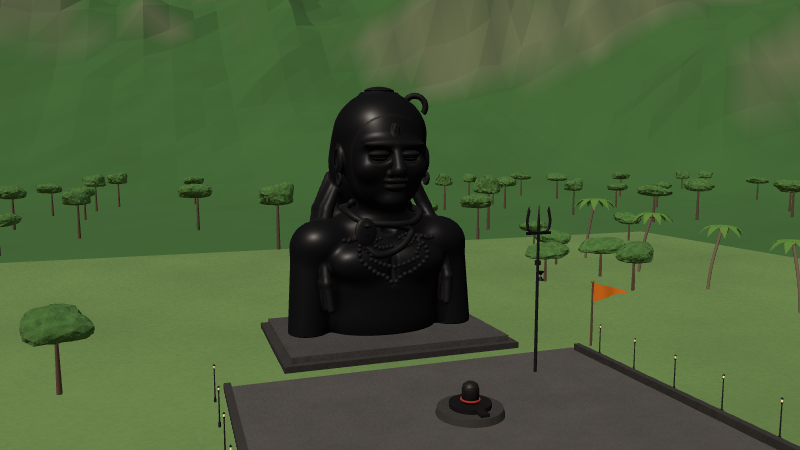
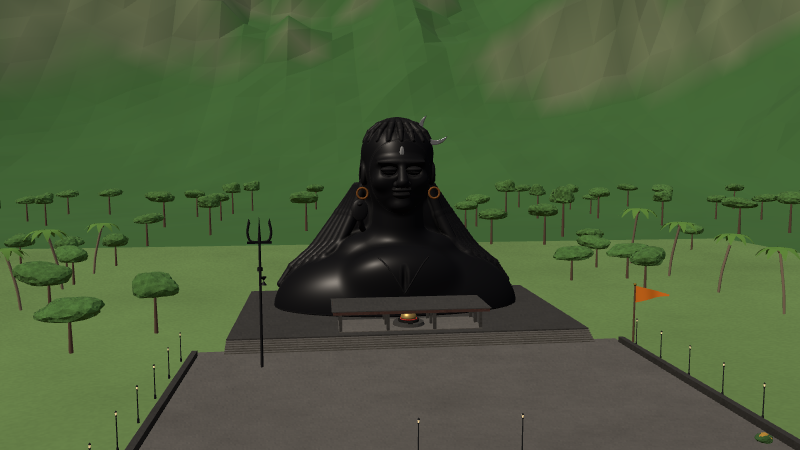
Adiyogi after its photograph: broad sloping shoulders, a cloak of locks, the pavilion
The bust is now 45 m across: the head on a thick neck rising from shoulders
that slope to the ground, with no cut-off arms. Matted locks run back over the
head and fall in a cloak over the shoulders. The crescent and the third eye
are bright steel, the earrings copper; the cobra rears beside the neck on his
right, and a thin cord replaces the bead strings. In front, a terrace with
steps across it and the flat-roofed pavilion of the Yogeshwar linga.

Claude-Session: https://claude.ai/code/session_01TMbkMSndjAtdLzBZus9Ji6

diff --git a/js/monuments/adiyogi.js b/js/monuments/adiyogi.js
@@ -1,50 +1,50 @@
 import * as THREE from 'three';
-import { mat, mesh, box, at, inst } from '../helpers.js';
-import { trishul } from '../parts/components.js';
-import { ellipsoid as E, cone, chain, blend, carve, mirrorX, flatBase, bounded, sculpt, statueMaterial, snap, onSkin, smin } from '../sdf.js';
+import { mat, mesh, at } from '../helpers.js';
+import { ellipsoid as E, cone, chain, blend, carve, mirrorX, flatBase, bounded, sculpt, statueMaterial, onSkin, smin } from '../sdf.js';
 import { detail } from '../detail.js';
 import { addDetails } from '../details/adiyogi.js';
 
 // Adiyogi at the Isha Yoga Centre near Coimbatore (2017), from photographs: a bust of Shiva as the
-// first yogi, 112 ft (34.24 m) high, of black steel, at the foot of the Velliangiri hills. The bust
-// is cut off across the chest and the upper arms. The face is calm and smooth, the eyes half
-// closed under heavy lids, a third eye upright in the middle of the brow, the lips full; the hair
-// is a mass of matted locks gathered into a high knot, with the crescent moon in it on his left,
-// and long locks falling over the shoulders. A cobra coils round his neck and raises its hood on
-// his chest, and strings of rudraksha beads hang over it. In front of the bust a tall trident is
-// planted. The bust faces +z; it stands on a low platform BASE high.
+// first yogi, 112 ft (34.24 m) high, 45 m across and 25 m deep, of black steel, at the foot of the
+// Velliangiri hills. The head, half the statue's height, stands on a thick neck that rises out of
+// very broad shoulders, which slope away to the ground on either side like a mound: there are no
+// arms. The face is calm and smooth, the eyes closed under arched lids, the lips full and a little
+// smiling; the third eye is a pale upright almond of bright steel on the brow. The hair is a mass
+// of matted locks piled into a knot, with a large pale crescent moon standing out of it on his
+// left, and it falls behind the neck in a broad cloak that spreads over the shoulders, long locks
+// running down them to the ground. A copper ring hangs in each ear. A cobra coils round the foot
+// of the neck and rears its hood beside it on his right, and a thin cord hangs in a V on the
+// chest. The bust faces +z; it stands on a low platform BASE high.
 export const STEEL = mat('#1f1f22', 0.36, 0.55), BASE = 1.6, H = 34.24;
+const BRIGHT = mat('#c9ccd0', 0.3, 0.8), COPPER = mat('#b9753a', 0.35, 0.8);
 // The head's layout, after the face of the seated Shiva (js/parts/figures.js), in units P maps to
 // metres: S metres a unit, the middle of the skull at y = HY.
 const S = 0.62, HY = 24.3, HZ = 1.0;
 const P = (x, y, z) => [x * S, HY + y * S * 1.08, HZ + z * S], k = (v) => v * S;
 
-// The long locks over each shoulder: from behind the ear, over the shoulder and down the chest.
-const LOCKS = [[-1.0, 0.85, 1], [0.2, 0.95, 1], [1.4, 0.85, 0.75], [2.6, 0.8, 0.5]];
+// The long locks over each shoulder: from behind the ear, down beside the neck and out along the
+// slope of the shoulder to the ground, five a side, fanning backwards.
 function locks(sx) {
-  return LOCKS.map(([o, r, len]) => chain([
-    [sx * (5.4 + o * 0.4), 21.6, -3.6 - o * 0.3, r * 0.8],
-    [sx * (7.6 + o * 0.3), 17.0, -2.6 - o * 0.5, r],
-    [sx * (8.8 + o * 0.2), 13.6, -0.2 - o * 0.8, r],
-    [sx * (8.9 + o * 0.1), 13.6 - 6.2 * len, 2.6 - o * 1.1, r * 0.85],
-    [sx * (8.5 + o * 0.1), 13.6 - 9.6 * len, 3.2 - o * 1.2, r * 0.6],
+  return [0, 1, 2, 3, 4].map((j) => chain([
+    [sx * (6.2 + 0.25 * j), 21.5, -2.4 - 0.6 * j, 0.8],
+    [sx * (8.0 + 0.6 * j), 16.5, -2.4 - 0.7 * j, 1.0],
+    [sx * (10.5 + 1.2 * j), 11.2 - 0.35 * j, -1.2 - 0.9 * j, 1.0],
+    [sx * (13.2 + 1.5 * j), 9.0 - 0.6 * j, 0.2 - 1.0 * j, 0.9],
+    [sx * (15.4 + 1.5 * j), 6.6 - 0.75 * j, 1.2 - 1.1 * j, 0.7],
   ], 0.3));
 }
 
 function adiyogiField() {
-  // The torso, cut flat at y = 0: chest, belly, shoulders, trapezius, the upper arms and the neck.
+  // The body, cut flat at y = 0: the mound of the shoulders, 45 m across, the trapezius rising to
+  // the neck, the chest swelling forward, and the thick neck.
   const torso = blend([
-    [E([0, 7.2, 0], [8.8, 8.6, 5.4]), 0],
-    [E([0, 1.4, 0.4], [8.0, 5.0, 5.0]), 2.0],
-    [mirrorX(E([8.4, 12.4, -0.5], [3.9, 3.3, 4.1])), 2.2],
-    [E([0, 14.6, -1.2], [6.6, 2.6, 4.0]), 2.0],
-    [mirrorX(cone([9.8, 11.6, -0.4], [10.8, 0.4, 0.3], 3.1, 2.8)), 1.6],
-    [mirrorX(E([3.9, 10.0, 3.6], [4.1, 2.6, 2.4])), 1.4],
-    [cone([0, 13.4, -0.6], [0, 20.4, 0.6], 3.4, 3.1), 1.6],
+    [E([0, 0, -1], [22.5, 11.5, 11.5]), 0],
+    [E([0, 10.6, -1.2], [10.5, 3.4, 5.5]), 2.5],
+    [E([0, 6.5, 6.4], [9, 5, 4.5]), 2.5],
+    [cone([0, 10, -0.6], [0, 20.6, 0.6], 5.0, 4.4), 2.0],
   ]);
-  // The line between the breasts and the slight hollow at the throat.
-  let body = carve(torso, E([0, 9.6, 5.6], [0.45, 2.4, 0.7]), 0.6);
-  body = carve(body, E([0, 14.6, 3.8], [1.0, 0.6, 0.8]), 0.5);
+  // The line between the breasts.
+  const body = carve(torso, E([0, 7, 11.1], [0.4, 2.6, 0.6]), 0.5);
   // The head: skull, jaw and chin, cheeks, brow, nose, lips and ears.
   let head = blend([
     [E(P(0, 1.4, -0.5), [k(9.8), k(10.8) * 1.08, k(10.3)]), 0],
@@ -71,9 +71,6 @@ function adiyogiField() {
   head = carve(head, E(P(0, -5.05, 10.0), [k(2.7), k(0.17), k(1.0)]), k(0.2));
   head = carve(head, E(P(0, -3.65, 10.25), [k(0.35), k(0.6), k(0.3)]), k(0.15));
   head = carve(head, mirrorX(E(P(10.7, -0.2, -0.2), [k(0.5), k(2.0), k(1.2)])), k(0.25));
-  // The third eye, upright in the middle of the brow: an almond rim with a closed slit.
-  head = blend([[head, 0], [E(P(0, 5.0, 9.0), [k(0.85), k(2.0), k(0.55)]), k(0.4)]]);
-  head = carve(head, E(P(0, 5.0, 9.55), [k(0.18), k(1.5), k(0.35)]), k(0.1));
   // The hair: a cap of locks over the skull, from a hairline high on the brow, and the knot,
   // three rings of piled locks rising to the top; and the locks down the back.
   const hair = blend([
@@ -81,16 +78,24 @@ function adiyogiField() {
     [E(P(0, 10.4, -2.6), [k(6.2), k(2.8), k(5.8)]), k(1.4)],
     [E(P(0, 12.8, -2.9), [k(4.4), k(2.1), k(4.2)]), k(1.0)],
     [E(P(0, -1.0, -6.5), [k(11.0), k(12.0), k(6.0)]), k(2.0)],
-    [E([0, 14.5, -4.8], [7.0, 6.0, 2.4]), 2.0],
   ]);
+  // The cloak of hair behind the neck, spreading over the shoulders.
+  const cloak = blend([[E([0, 15, -5.4], [10.5, 9, 4.6]), 0], [E([0, 8.5, -6.8], [16.5, 6.5, 4.8]), 3]]);
   // Grooves between the coils of the knot and the locks of the cap.
   let hairC = hair;
   for (const [y, r] of [[9.2, 6.4], [11.6, 5.2], [13.6, 3.6]]) hairC = carve(hairC, (x, yy, z) => Math.hypot(Math.hypot(x, (z - P(0, 0, -2.6)[2]) * 1.05) - k(r), yy - P(0, y, 0)[1]) - k(0.35), k(0.3));
-  const headB = bounded(blend([[head, 0], [hairC, k(0.6)]]), [0, 25.5, -0.5], 13.5, 1.5);
+  // The matted locks: ropes of hair running back from the hairline over the cap to the knot.
+  const C = P(0, 4.8, -2.4), ropes = [];
+  for (let i = -7; i <= 7; i++) {
+    const phi = i * 0.36, pts = [];
+    for (const [e, r] of [[0.4, 0.45], [0.7, 0.85], [1.02, 0.95], [1.3, 0.95]]) pts.push([C[0] + k(10.7) * Math.sin(phi) * Math.cos(e), C[1] + k(9.7) * Math.sin(e), C[2] + k(11.1) * Math.cos(phi) * Math.cos(e), k(r)]);
+    ropes.push([chain(pts, k(0.3)), k(0.35)]);
+  }
+  const headB = bounded(blend([[head, 0], [blend([[hairC, 0], ...ropes]), k(0.6)]]), [0, 25.5, -0.5], 13.5, 1.5);
   const lockL = locks(-1), lockR = locks(1);
   const locksF = blend([...lockL, ...lockR].map((f) => [f, 0.2]));
-  const all = (x, y, z) => smin(smin(body(x, y, z), headB(x, y, z), 1.2), locksF(x, y, z), 0.35);
-  return { f: flatBase(all, 0, 0.3), lo: [-15, -0.2, -10.5], hi: [15, H + 0.6, 11.5], head };
+  const all = (x, y, z) => smin(smin(smin(body(x, y, z), headB(x, y, z), 1.2), cloak(x, y, z), 0.8), locksF(x, y, z), 0.45);
+  return { f: flatBase(all, 0, 0.3), lo: [-24, -0.2, -14], hi: [24, H + 0.6, 12.5], head };
 }
 
 let fieldP = null;
@@ -100,53 +105,51 @@ const parts = () => (fieldP ||= adiyogiField());
 function bustMesh() {
   const low = detail.low;
   return mesh(sculpt(low ? 'adiyogi-coarse' : 'adiyogi', adiyogiField, {
-    h: low ? 0.34 : 0.17, reach: 1.4, deep: [0.4, 0.4, 0.42], wear: 0.25,
+    h: low ? 0.4 : 0.2, reach: 1.4, deep: [0.4, 0.4, 0.42], wear: 0.25,
     split: [{ region: E(P(0, -1.2, 7.4), [k(10.2), k(10.4), k(6.2)]), h: low ? 0.13 : 0.07, lo: [-6.9, 16.6, 1.6], hi: [6.9, 32.4, 9.6] }],
   }), statueMaterial(STEEL));
 }
 
-// What is laid on the skin: the cobra, the rudraksha, the crescent and the earrings.
+// What is laid on the skin: the cobra, the cord, the crescent, the third eye and the earrings.
 function ornaments() {
   const f = parts().f, g = new THREE.Group(), V = (p) => new THREE.Vector3(...p);
-  // The cobra: a coil round the foot of the neck, its body crossing down the chest from his left
-  // shoulder, the head reared on his right breast with its hood spread.
-  const coil = [];
-  for (let i = 0; i <= 30; i++) {
-    const a = (i / 30) * Math.PI * 2 * 1.1 - Math.PI * 0.2;
-    coil.push(snap(f, [Math.sin(a) * 4.5, 15.2 - 0.3 * Math.sin(a), Math.cos(a) * 4.5 - 0.6], 0.45));
-  }
-  const fall = onSkin(f, [[3.2, 14.2, 3.6], [1.8, 12.6, 5.0], [-0.6, 11.4, 5.4], [-2.6, 11.0, 5.2], [-3.6, 11.8, 5.0]], 0.45);
-  const curve = new THREE.CatmullRomCurve3([...coil, ...fall].map(V));
-  g.add(mesh(new THREE.TubeGeometry(curve, detail.low ? 120 : 260, 0.48, detail.low ? 8 : 12, false), STEEL));
-  const neck = V(snap(f, [-3.9, 13.0, 5.2], 0.9)), hood = mesh(new THREE.SphereGeometry(1, 20, 14), STEEL);
-  hood.scale.set(1.5, 1.9, 0.42);
-  hood.position.copy(neck).add(new THREE.Vector3(0, 1.4, 0.35));
-  hood.rotation.x = -0.18;
-  g.add(mesh(new THREE.TubeGeometry(new THREE.CatmullRomCurve3([V(fall[fall.length - 1]), neck, neck.clone().add(new THREE.Vector3(0, 1.2, 0.5))]), 20, 0.5, 10), STEEL), hood);
-  const snout = mesh(new THREE.SphereGeometry(0.55, 14, 10), STEEL);
+  // The cobra: its body comes round the back of the neck and over his right shoulder, then rises
+  // beside the neck, the hood spread and facing forward at the height of the jaw.
+  const coil = [[4.2, 13.2, -4.4], [0, 13.4, -5.7], [-4.2, 13.4, -4.2], [-6.1, 13.7, -1.6]];
+  const rise = [[-6.6, 14.6, 0.4], [-6.9, 15.9, 1.1], [-7.0, 17.0, 1.7]];
+  const curve = new THREE.CatmullRomCurve3([...coil, ...rise].map(V));
+  g.add(mesh(new THREE.TubeGeometry(curve, detail.low ? 60 : 120, 0.55, detail.low ? 8 : 12, false), STEEL));
+  const hood = mesh(new THREE.SphereGeometry(1, 20, 14), STEEL, -7.0, 17.6, 1.9);
+  hood.scale.set(1.5, 2.0, 0.5);
+  hood.rotation.x = -0.15;
+  const snout = mesh(new THREE.SphereGeometry(0.55, 14, 10), STEEL, -7.0, 18.7, 2.5);
   snout.scale.set(0.9, 0.7, 1.3);
-  snout.position.copy(hood.position).add(new THREE.Vector3(0, 0.9, 0.55));
-  g.add(snout);
-  // Rudraksha: three strings over the chest, each bead a little apart from the next.
-  const beads = [];
-  for (const [w, drop, y0, r] of [[4.4, 2.6, 14.6, 0.3], [5.4, 4.8, 14.8, 0.34], [6.2, 7.2, 15.0, 0.36]]) {
+  g.add(hood, snout);
+  // The cord: two thin lines from the sides of the neck, meeting low on the chest.
+  for (const sx of [-1, 1]) {
     const pts = [];
-    for (let i = 0; i <= 24; i++) { const a = (i / 24) * Math.PI; pts.push([Math.cos(a) * w, y0 - drop * Math.sin(a) ** 1.4, 6]); }
-    const c = new THREE.CatmullRomCurve3(onSkin(f, pts.map(([x, y]) => [x, y, 8]), r * 0.85).map(V)), n = Math.round(c.getLength() / (r * 2.15));
-    for (let i = 0; i <= n; i++) { const q = c.getPointAt(i / n); beads.push([q.x, q.y, q.z, r, r, r]); }
+    for (let i = 0; i <= 14; i++) { const t = i / 14; pts.push([sx * 4.8 * (1 - t), 12.2 - 8.2 * t, 12]); }
+    g.add(mesh(new THREE.TubeGeometry(new THREE.CatmullRomCurve3(onSkin(f, pts, 0.1).map(V)), 60, 0.14, 6), STEEL));
   }
-  g.add(inst(new THREE.IcosahedronGeometry(1, detail.low ? 1 : 2), beads, STEEL));
-  // The crescent in the knot, on his left, its horns turned up and out.
-  const moon = mesh(new THREE.TorusGeometry(1.5, 0.42, 10, 28, Math.PI * 1.15), STEEL);
-  moon.position.set(4.6, HY + k(10.6) * 1.08, HZ + k(0.5));
-  moon.rotation.set(0.1, -0.5, -0.4 - Math.PI * 0.07);
+  // The crescent in the knot, on his left: of bright steel, its belly against the hair, one horn
+  // in the locks and the other standing out to the side.
+  const R = 2.7, lune = new THREE.Shape(), N = 28;
+  for (let i = 0; i <= N; i++) { const a = (i / N * 2 - 1) * 1.85; lune[i ? 'lineTo' : 'moveTo'](R * Math.cos(a), R * Math.sin(a)); }
+  for (let i = N; i >= 0; i--) { const t = i / N * 2 - 1, a = t * 1.85, r = R - 0.85 * (1 - t * t) ** 0.8; lune.lineTo(r * Math.cos(a), r * Math.sin(a)); }
+  const moon = mesh(new THREE.ExtrudeGeometry(lune, { depth: 0.3, bevelEnabled: true, bevelThickness: 0.08, bevelSize: 0.08, bevelSegments: 2 }).translate(0, 0, -0.15), BRIGHT);
+  moon.position.set(6.3, 31.9, HZ + k(1.5));
+  moon.rotation.set(0, -0.25, 3.95);
   g.add(moon);
-  // Heavy round earrings hanging from the lobes.
-  for (const s of [-1, 1]) {
-    const e = mesh(new THREE.TorusGeometry(0.75, 0.24, 10, 24), STEEL, s * k(10.3), HY - k(4.4) * 1.08, HZ + k(0.4));
-    e.rotation.y = Math.PI / 2;
-    g.add(e);
-  }
+  // The third eye: a pale upright almond on the brow.
+  const eye = mesh(new THREE.SphereGeometry(1, 16, 20), BRIGHT);
+  eye.scale.set(0.42, 1.15, 0.16);
+  // Set on the brow by stepping in along z until the skin is met.
+  let ez = 10;
+  while (f(0, P(0, 5.0, 0)[1], ez) > 0 && ez > 4) ez -= 0.02;
+  eye.position.set(0, P(0, 5.0, 0)[1], ez);
+  g.add(eye);
+  // A copper ring hanging from each ear lobe.
+  for (const s of [-1, 1]) g.add(mesh(new THREE.TorusGeometry(0.95, 0.2, 10, 28), COPPER, s * (k(10.3) + 0.1), HY - k(5.6) * 1.08, HZ + k(1.2)));
   return g;
 }
 
@@ -161,11 +164,7 @@ export function buildAdiyogi() {
   const g = new THREE.Group(), f = new THREE.Group();
   g.add(f);
   f.add(at(adiyogi(), 0, BASE, 0));
-  // The platform: a broad low plinth of dark stone in two steps.
-  f.add(box(32, BASE * 0.5, 22, mat('#3a3836', 0.8), 0, 0, 0.6), box(30, BASE * 0.5, 20, mat('#4a4744', 0.75), 0, BASE * 0.5, 0.6));
-  // The trishul in front, to his right.
-  f.add(at(trishul(17, STEEL), 13, 0, 21));
   addDetails(f, g, { BASE });
-  // Square on to the face, a little from his right, looking up.
-  return { group: g, focus: f, view: [-0.35, 0.12, 1], zoom: 0.95 };
+  // Square on to the face, from the forecourt, looking up.
+  return { group: g, focus: f, view: [-0.12, 0.1, 1], zoom: 0.9 };
 }

diff --git a/js/details/adiyogi.js b/js/details/adiyogi.js
@@ -1,31 +1,41 @@
 import * as THREE from 'three';
 import { M, mat, mesh, box, cyl, at, lathe, flag } from '../helpers.js';
-import { mergeByMaterial } from '../parts/components.js';
+import { mergeByMaterial, trishul } from '../parts/components.js';
+import { steps } from '../parts/doorways.js';
 import { mountainRing } from '../parts/terrain.js';
 import { trees, shrubs, lampPosts, along, scatter } from '../parts/realism.js';
 import { detail } from '../detail.js';
 
-const DARK = mat('#3d3b38', 0.8), PAVE = mat('#5a5651', 0.85), LINGA = mat('#1d1c1b', 0.4), CLOTH = mat('#c8322b', 0.8);
+const DARK = mat('#3d3b38', 0.8), PAVE = mat('#6b665f', 0.88), LINGA = mat('#1d1c1b', 0.4), CLOTH = mat('#c8322b', 0.8);
+const ROOF = mat('#4a2f28', 0.8), GILT = mat('#d8b46a', 0.35, 0.7);
 
-// The setting of Adiyogi, from photographs: a wide lawn round the bust's dark platform, a paved
-// forecourt in front where pilgrims walk round the Yogeshwar linga, which sits under the trident on
-// a low black pedestal, its base wound with red cloth; coconut palms and neem along the edges, and
-// behind, the forested Velliangiri hills rising steeply, their summits in cloud. Dimensions follow
-// js/monuments/adiyogi.js.
-export function addDetails(f, g) {
-  g.add(box(240, 0.2, 220, M.grass, 0, -0.2, 20));
-  g.add(box(46, 0.06, 40, PAVE, 0, 0, 34), box(8, 0.06, 80, PAVE, 0, 0, 92));
-  // The Yogeshwar linga before the bust, in its yoni, on a round pedestal.
-  const lin = new THREE.Group();
-  lin.add(cyl(3.4, 3.6, 0.8, DARK, 0, 0, 0, 32), cyl(2.2, 2.2, 0.5, LINGA, 0, 0.8, 0, 32), box(0.9, 0.3, 1.8, LINGA, 0, 1.0, 2.6));
-  lin.add(at(lathe([[0, 0], [0.9, 0], [0.9, 1.4], [0.75, 1.85], [0.4, 2.1], [0, 2.15]], LINGA, 32), 0, 1.3, 0));
-  lin.add(mesh(new THREE.TorusGeometry(0.95, 0.12, 8, 28).rotateX(Math.PI / 2), CLOTH, 0, 1.6, 0));
-  f.add(at(lin, 0, 0, 30));
+// The setting of Adiyogi, from photographs: the bust stands on a broad dark terrace reached by
+// steps across its whole front; before it, on the terrace, a low open pavilion with a flat roof on
+// square posts shelters the Yogeshwar linga under its gilt cover. A paved forecourt lies below, a
+// trident planted beside it; coconut palms and neem along the edges, and behind, the forested
+// Velliangiri hills rising steeply, their summits in cloud. Dimensions follow
+// js/monuments/adiyogi.js: the bust is 45 m across and 25 m deep, on a terrace BASE high.
+export function addDetails(f, g, { BASE }) {
+  g.add(box(260, 0.2, 240, M.grass, 0, -0.2, 20));
+  g.add(box(64, 0.06, 44, PAVE, 0, 0, 44), box(8, 0.06, 80, PAVE, 0, 0, 104));
+  // The terrace under the bust, and the steps down from its front edge.
+  f.add(box(56, BASE, 36, DARK, 0, 0, 3), at(steps(56, BASE, 6, PAVE), 0, 0, 21));
+  // The pavilion: twelve square posts, a flat roof with a deep fascia.
+  const pav = new THREE.Group(), PW = 22, PD = 7, PH = 2.9;
+  for (const x of [-PW / 2, -PW / 6, PW / 6, PW / 2]) for (const z of [-PD / 2, 0, PD / 2]) pav.add(box(0.45, PH, 0.45, DARK, x, 0, z));
+  pav.add(box(PW + 2.4, 0.5, PD + 2.4, ROOF, 0, PH, 0), box(PW + 2.8, 0.14, PD + 2.8, DARK, 0, PH + 0.5, 0), box(PW + 0.6, 0.12, PD + 0.6, PAVE, 0, 0, 0));
+  // The Yogeshwar linga in its yoni on a round pedestal, under a gilt dome with a finial.
+  pav.add(cyl(2.4, 2.6, 0.5, DARK, 0, 0.12, 0, 32), cyl(1.7, 1.7, 0.35, LINGA, 0, 0.62, 0, 32), box(0.7, 0.25, 1.4, LINGA, 0, 0.72, 2));
+  pav.add(at(lathe([[0, 0], [1.25, 0], [1.3, 0.5], [1.05, 1.0], [0.55, 1.3], [0.12, 1.42], [0.1, 1.7], [0, 1.74]], GILT, 32), 0, 0.97, 0));
+  pav.add(mesh(new THREE.TorusGeometry(1.32, 0.1, 8, 28).rotateX(Math.PI / 2), CLOTH, 0, 1.05, 0));
+  f.add(at(mergeByMaterial(pav), 0, BASE, 15.5));
+  // The trident planted beside the forecourt, to his right.
+  f.add(at(trishul(17), -22, 0, 30));
   // Low walls of dark stone framing the forecourt, lamps along its sides, a saffron flag.
   const wall = new THREE.Group();
-  for (const s of [-1, 1]) wall.add(box(0.8, 0.9, 38, DARK, s * 23, 0, 34));
-  g.add(mergeByMaterial(wall), lampPosts([...along(6, [-24.5, 18], [-24.5, 52]), ...along(6, [24.5, 18], [24.5, 52]), ...along(6, [-5, 60], [-5, 130]), ...along(6, [5, 60], [5, 130])]));
-  g.add(at(flag(9, M.saffron), 26, 0, 14));
+  for (const s of [-1, 1]) wall.add(box(0.8, 0.9, 40, DARK, s * 32, 0, 44));
+  g.add(mergeByMaterial(wall), lampPosts([...along(6, [-33.5, 26], [-33.5, 62]), ...along(6, [33.5, 26], [33.5, 62]), ...along(6, [-5, 60], [-5, 130]), ...along(6, [5, 60], [5, 130])]));
+  g.add(at(flag(9, M.saffron), 34, 0, 24));
   // Palms and neem round the lawn, shrubs along its edges.
   g.add(trees([...along(9, [-70, -50], [-70, 110]), ...along(9, [70, -50], [70, 110])], { kind: 'palm', seed: 41 }));
   g.add(trees([...scatter(16, [-110, -40, -80, 120], { seed: 42, gap: 10 }), ...scatter(16, [40, 110, -80, 120], { seed: 43, gap: 10 })], { kind: 'neem', seed: 44 }));

diff --git a/docs/components.md b/docs/components.md
@@ -201,7 +201,7 @@ against photographs. The colossal ones are drawn first; the rest follow by monum
 | Bahubali | [Gommateshwara](https://monuments-of-india-nu.vercel.app/#gommateshwara) | 17.4 m of granite in kayotsarga: column legs, long-fingered hands on the anthills, creepers rising up the thighs in a V and winding up the arms, curls, long earlobes, on a lotus | `bahubaliBody` (figures), `bahubali()` (gommateshwara) |
 | Thiruvalluvar | [Vivekananda Rock Memorial](https://monuments-of-india-nu.vercel.app/#vivekananda-rock-memorial) | 29 m, built of granite blocks whose joints show: right hand raised with three fingers, left holding the palm-leaf book, the hips swaying, full beard and hair knot; on the Alankara Mandapam | `thiruvalluvarBody` (figures), `thiruvalluvar()` (vivekananda-rock-memorial) |
 | Shiva | [Nageshwar Temple](https://monuments-of-india-nu.vercel.app/#nageshwar-temple) | 25 m of painted concrete in the half lotus: four arms with trishul, damru, Om on the raised palm; malas, cobra with its hood beside the ear, tiger skins, the band of ash and the third eye painted, combed jata with the crescent | `shivaBody` (figures), `mahayogiShiva()` (nageshwar-temple details) |
-| Adiyogi | [Adiyogi Shiva Statue](https://monuments-of-india-nu.vercel.app/#adiyogi) | A bust 112 ft high in black steel: the calm face with half-closed eyes and the third eye, matted locks gathered into a high knot with the crescent moon, long locks over the shoulders, a cobra round the neck with its hood on the chest, strings of rudraksha; a 17 m trishul planted before it | `adiyogi()` (adiyogi), `trishul` (components) |
+| Adiyogi | [Adiyogi Shiva Statue](https://monuments-of-india-nu.vercel.app/#adiyogi) | A bust 112 ft high and 45 m across in black steel: the head on a thick neck rising from broad shoulders that slope to the ground; the calm face with closed eyes, a bright steel third eye, matted locks piled on the head and falling in a cloak over the shoulders, a pale crescent on his left, copper rings in the ears, a cobra rearing beside the neck on his right and a thin cord on the chest; before it the pavilion of the Yogeshwar linga | `adiyogi()` (adiyogi) |
 | Adi Shankaracharya | [Kedarnath Temple](https://monuments-of-india-nu.vercel.app/#kedarnath-temple) | 12 ft of black chlorite schist, seated cross-legged: long hair, three malas and armbands, the right hand in the gesture of teaching holding the flagged staff, the left on the knee with a palm-leaf book; on a lotus bud on a post in a pool | `crossLegged` (figures), `shankaracharya()` (kedarnath-temple) |
 | Statue of Oneness | [Omkareshwar](https://monuments-of-india-nu.vercel.app/#omkareshwar-temple) | 108 ft of bronze: Shankaracharya as a boy of twelve, walking, the staff across him, the water pot in his left hand, mala and rudraksha bands, on an open lotus | `shankaraBody` (figures), `statueOfOneness()` (omkareshwar-temple details) |
 | Ramanuja | [Statue of Equality](https://monuments-of-india-nu.vercel.app/#statue-of-equality) | Gilt, seated cross-legged with the hands joined in anjali: shaven head, long earlobes with rings, the urdhva pundra on the brow, the sacred thread and bead strings, the tridandam (three staves bound as one) leaning across the chest with its flag; on a lotus over a ring of elephants | `crossLegged` (figures), `ramanuja()` (statue-of-equality) |

diff --git a/docs/how-it-is-drawn.md b/docs/how-it-is-drawn.md
@@ -94,7 +94,7 @@ limbs grow out of bodies as in a carving. Every statue is pictured in
   combed beard and upswept moustache.
 - **The great statues.** Patel in dhoti, kurta and shawl (182 m, bronze plates); Bahubali with
   creepers up his legs and arms; Thiruvalluvar built of granite blocks; the seated Shiva of
-  Nageshwar with his trishul, malas and cobra; the Adiyogi bust in black steel; Ramanuja of the
+  Nageshwar with his trishul, malas and cobra; the Adiyogi bust in black steel, 45 m across its shoulders; Ramanuja of the
   Statue of Equality, gilt, with joined hands and the tridandam.
 - **Modern and colonial statues.** Netaji saluting under the canopy at India Gate; Shivaji on a
   prancing horse at the Gateway of India; Adi Shankaracharya at Kedarnath and the boy Shankara of
